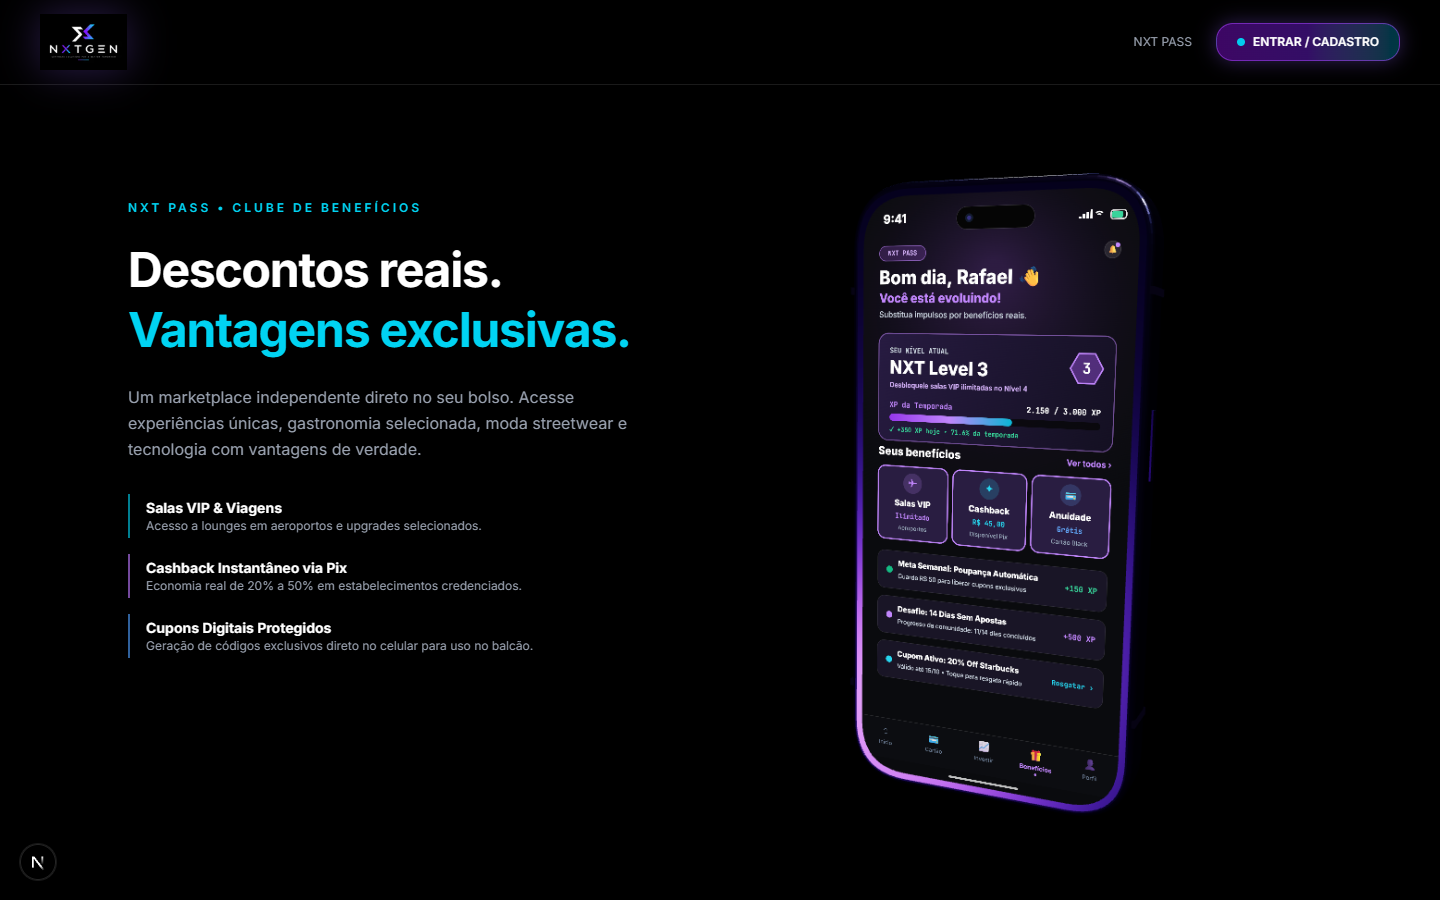
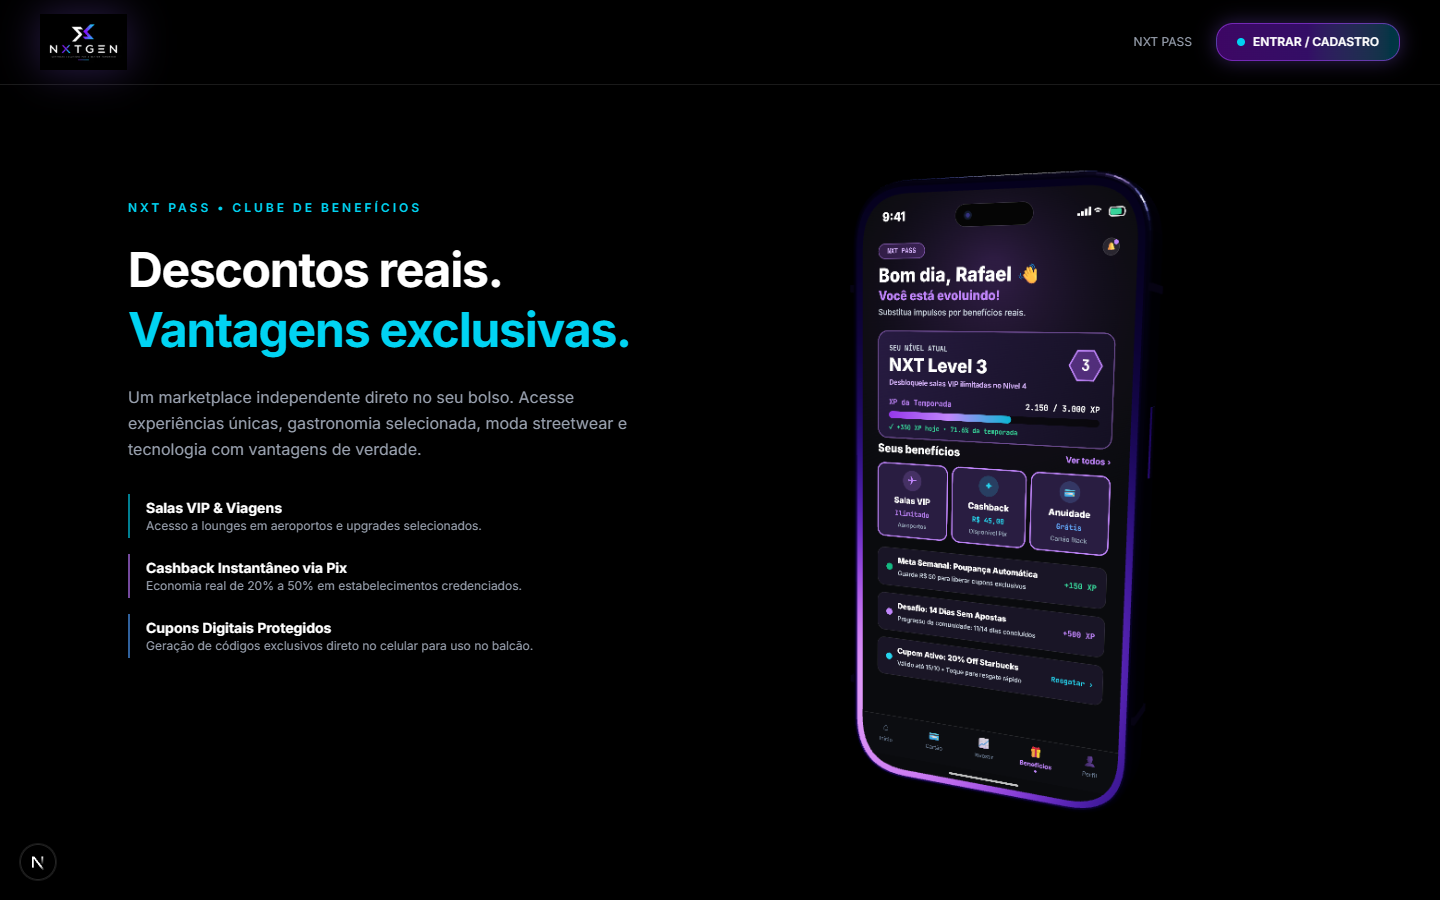
feat(ux): calibrate phone stop position higher, switch to custom nxt cursors, smoothen scroll and add auth card entrance animation

diff --git a/components/scrollytelling-container.tsx b/components/scrollytelling-container.tsx
@@ -54,15 +54,16 @@ export function ScrollytellingContainer() {
 
   // Smooth spring physics for silky real-time scroll tracking
   const smoothProgress = useSpring(scrollYProgress, {
-    stiffness: 160,
-    damping: 28,
-    restDelta: 0.001,
+    stiffness: 80,
+    damping: 24,
+    mass: 0.7,
+    restDelta: 0.0005,
   });
 
   // =========================================================================
   // 3D PHONE MOTION TRANSFORMATIONS
-  // Continuous keyframes: 0% (Hero) -> 33% (Pass) -> 66% (Gamify) -> 100% (Auth)
-  // Follows the scroll seamlessly down the page!
+  // Calibrated across stages: Hero -> PASS -> Gamify -> Auth Card Stop
+  // Descends along scroll and stops higher up (y = -25) to align with Auth Card
   // =========================================================================
   const rotateXDesktop = useTransform(
     smoothProgress,
@@ -93,7 +94,7 @@ export function ScrollytellingContainer() {
   const yDesktop = useTransform(
     smoothProgress,
     [0, 0.22, 0.38, 0.52, 0.68, 0.85, 1],
-    [0, 35, 65, 95, 125, 155, 180]
+    [0, 35, 65, 75, 50, 0, -50]
   );
 
   // Mobile responsive transforms: compact 0.52 scale, docked at top, tilts with scroll
@@ -104,7 +105,7 @@ export function ScrollytellingContainer() {
   const yMobile = useTransform(
     smoothProgress,
     [0, 0.33, 0.66, 1],
-    [-220, -170, -120, -80]
+    [-220, -170, -130, -160]
   );
   const scaleMobile = useTransform(smoothProgress, [0, 1], [0.52, 0.52]);
 
@@ -130,12 +131,13 @@ export function ScrollytellingContainer() {
   // Smooth scroll via Lenis + GSAP ScrollTrigger synchronization
   useEffect(() => {
     const lenis = new Lenis({
-      duration: 1.2,
+      duration: 1.5,
       easing: (t) => Math.min(1, 1.001 - Math.pow(2, -10 * t)),
       orientation: "vertical",
       gestureOrientation: "vertical",
       smoothWheel: true,
-      wheelMultiplier: 1,
+      wheelMultiplier: 0.85,
+      touchMultiplier: 1.5,
     });
 
     lenis.on("scroll", ScrollTrigger.update);
@@ -206,10 +208,10 @@ export function ScrollytellingContainer() {
         }
       );
 
-      // Section 4: Auth reveal
+      // Section 4: Auth Header reveal
       gsap.fromTo(
-        ".gsap-auth-reveal",
-        { opacity: 0, y: 30 },
+        ".gsap-auth-header",
+        { opacity: 0, y: 25 },
         {
           opacity: 1,
           y: 0,
@@ -218,6 +220,47 @@ export function ScrollytellingContainer() {
           scrollTrigger: {
             trigger: "#secao-login",
             start: "top 85%",
+            toggleActions: "play none none reverse",
+          },
+        }
+      );
+
+      // Section 4: Auth Card Entrance Animation (smooth float-up, de-blur, and 3D scale)
+      gsap.fromTo(
+        ".gsap-auth-card",
+        {
+          opacity: 0,
+          y: 65,
+          scale: 0.92,
+          filter: "blur(10px)",
+        },
+        {
+          opacity: 1,
+          y: 0,
+          scale: 1,
+          filter: "blur(0px)",
+          duration: 1.2,
+          ease: "power3.out",
+          scrollTrigger: {
+            trigger: "#secao-login",
+            start: "top 80%",
+            toggleActions: "play none none reverse",
+          },
+        }
+      );
+
+      // Section 4: Neon Ambient Glow bloom
+      gsap.fromTo(
+        ".gsap-auth-glow",
+        { opacity: 0, scale: 0.8 },
+        {
+          opacity: 0.85,
+          scale: 1,
+          duration: 1.4,
+          ease: "power2.out",
+          scrollTrigger: {
+            trigger: "#secao-login",
+            start: "top 80%",
             toggleActions: "play none none reverse",
           },
         }
@@ -450,8 +493,8 @@ export function ScrollytellingContainer() {
           id="secao-login"
           className="min-h-[135vh] flex flex-col justify-end pb-12 sm:justify-center items-end px-4 sm:px-12 max-w-7xl mx-auto py-36 pointer-events-none"
         >
-          <div className="gsap-auth-reveal max-w-md w-full pointer-events-auto space-y-6">
-            <div className="space-y-2">
+          <div className="max-w-md w-full pointer-events-auto space-y-6">
+            <div className="gsap-auth-header space-y-2">
               <p className="text-xs font-mono uppercase tracking-[0.25em] text-purple-400 font-semibold">
                 Acesso à Plataforma
               </p>
@@ -494,12 +537,17 @@ export function ScrollytellingContainer() {
                 </div>
               </Card>
             ) : (
-              <div className="relative overflow-hidden rounded-[32px] bg-[#0A0D18]/85 backdrop-blur-3xl border border-white/10 shadow-[0_25px_70px_rgba(0,0,0,0.85)] p-7 sm:p-9 text-white w-full max-w-md mx-auto">
-                {/* Header */}
-                <div className="text-center space-y-1.5 mb-6">
-                  <h2 className="font-heading text-3xl sm:text-4xl font-extrabold tracking-tight text-white">
-                    NXTGEN
-                  </h2>
+              <div className="relative group/auth w-full max-w-md mx-auto">
+                {/* Futuristic ambient neon bloom behind the card */}
+                <div className="gsap-auth-glow absolute -inset-2 rounded-[36px] bg-gradient-to-r from-purple-600/40 via-violet-600/30 to-cyan-500/40 blur-2xl -z-10 pointer-events-none" />
+
+                {/* Animated Entrance Auth Card */}
+                <div className="gsap-auth-card relative overflow-hidden rounded-[32px] bg-[#0A0D18]/90 backdrop-blur-3xl border border-white/10 shadow-[0_25px_70px_rgba(0,0,0,0.85)] p-7 sm:p-9 text-white w-full">
+                  {/* Header */}
+                  <div className="text-center space-y-1.5 mb-6">
+                    <h2 className="font-heading text-3xl sm:text-4xl font-extrabold tracking-tight text-white">
+                      NXTGEN
+                    </h2>
                   <p className="text-xs sm:text-sm text-gray-400 font-sans">
                     Seu ecossistema de benefícios aguarda
                   </p>
@@ -672,6 +720,7 @@ export function ScrollytellingContainer() {
                   )}
                 </div>
               </div>
+            </div>
             )}
           </div>
         </section>

diff --git a/app/globals.css b/app/globals.css
@@ -72,7 +72,7 @@
   *,
   *::before,
   *::after {
-    cursor: url("/cursor-normal.png"), default !important;
+    cursor: url("/cursor-normalnxt.png") 0 0, default !important;
   }
   html,
   body {
@@ -80,7 +80,7 @@
     color: var(--foreground);
     overflow-x: clip;
     font-feature-settings: "cv02", "cv03", "cv04", "cv11";
-    cursor: url("/cursor-normal.png"), default !important;
+    cursor: url("/cursor-normalnxt.png") 0 0, default !important;
   }
 
   a,
@@ -103,7 +103,7 @@
   [role="switch"] *,
   .cursor-pointer,
   .cursor-pointer * {
-    cursor: url("/cursor-pointer.png"), pointer !important;
+    cursor: url("/cursor-pointernxt.png") 13 0, pointer !important;
   }
 }
 
